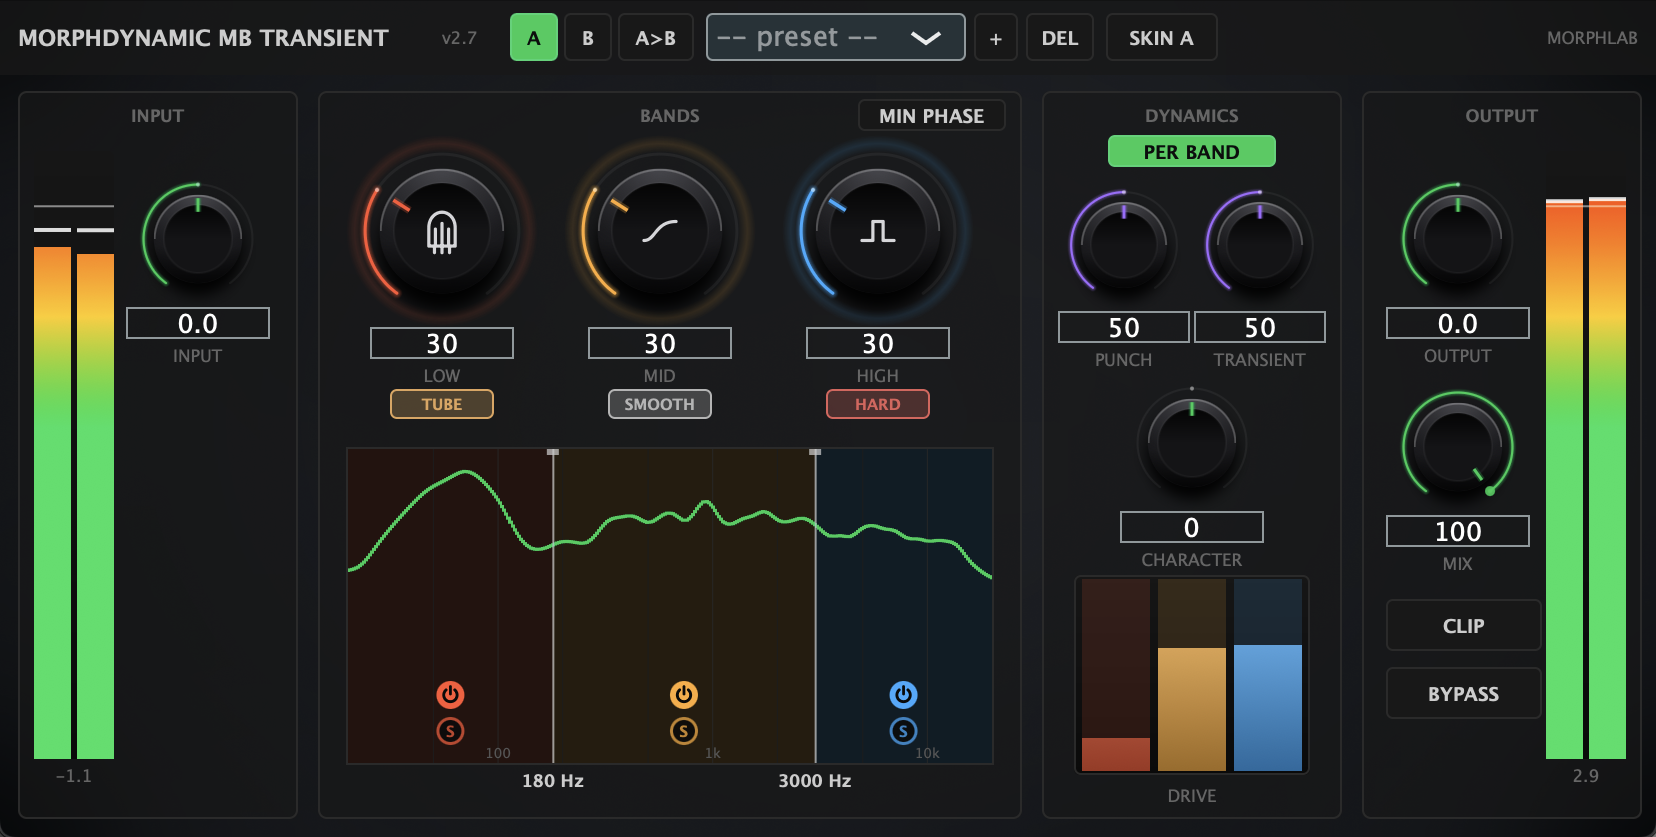
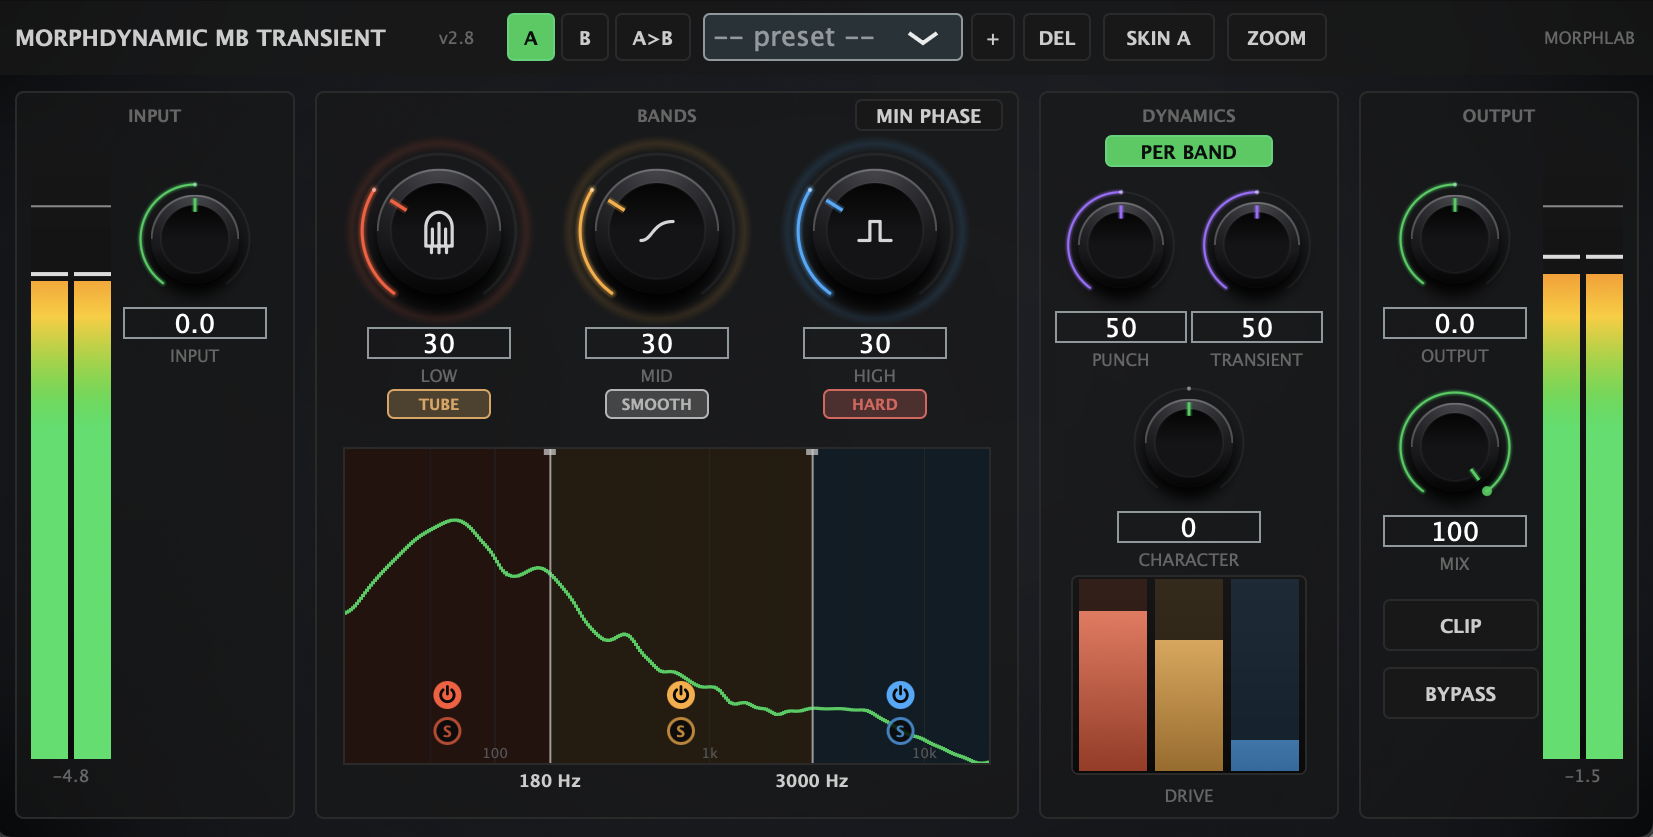
MorphDynamic MB Transient 2.8 (zoom), home riordinata, screenshot nuovo
Claude-Session: https://claude.ai/code/session_012eAqbqugaYwRDwb6sREDro

diff --git a/assets/site.js b/assets/site.js
@@ -15,26 +15,26 @@ const PRODUCTS = [
     released:"2026-10-09", older:[],
     tag:"Mastering clipper",
     text:"A mastering-grade clipper with an oversampled clip stage, a true-peak ceiling measured to ITU-R BS.1770, a movable transient/saturation insert and Mid/Side or dual-mono routing. Density without crushing the mix." },
+  { id:"morphdynamic", file:"MorphDynamic-MB-Transient", name:"MorphDynamic MB Transient", version:"2.8", group:"plugins",
+    released:"2026-10-30", older:[{ version:"2.7", released:"2026-10-15" }],
+    tag:"Multiband transient saturator",
+    text:"Brings the transient forward, in your face, without degrading the signal. Each band reacts only to its own hits while the sustain stays clean. Five saturation types including Transformer, per-band power and solo on the spectrum." },
   { id:"morphlator", file:"MorPhlator", name:"MorPhlator", version:"2.2", group:"plugins",
     released:"2026-10-05", older:[],
     tag:"Multiband harmonic exciter",
     text:"Adds weight and perceived loudness by reshaping the waveform, not by compressing it. Optional three-band split keeps the low end tight, and Gain Match gives you an honest A/B at equal loudness." },
-  { id:"morphtransient", file:"MorphTransient", name:"MorphTransient", version:"2.4", group:"plugins",
-    released:"2026-10-05", older:[],
-    tag:"Transient designer",
-    text:"Two knobs, attack and sustain, driven by level-independent dual-envelope detection — no threshold to chase, no pumping. Parallel mix and a live shape meter. Zero latency." },
-  { id:"morphdynamic", file:"MorphDynamic-MB-Transient", name:"MorphDynamic MB Transient", version:"2.7", group:"plugins",
-    released:"2026-10-15", older:[],
-    tag:"Multiband transient saturator",
-    text:"Brings the transient forward, in your face, without degrading the signal. Each band reacts only to its own hits while the sustain stays clean. Five saturation types including Transformer, per-band power and solo on the spectrum." },
-  { id:"morphase", file:"MorPhase", name:"MorPhase", version:"2.1", group:"plugins",
-    released:"2026-10-05", older:[],
-    tag:"All-pass phase tool",
-    text:"Rotates phase with first- or second-order all-pass filters without touching the magnitude. Align kicks, layers and multi-mic recordings, and watch the result on a beat-locked waveform." },
   { id:"morphalign", file:"MorPhalign", name:"MorPhalign", version:"3.2", group:"plugins",
     released:"2026-10-17", older:[],
     tag:"Sidechain phase alignment",
     text:"Aligns one track to another through the sidechain, so kick and bass sum with the least cancellation. Four engines — Rotate, Multiband, Match and Match LF — on one big knob." },
+  { id:"morphtransient", file:"MorphTransient", name:"MorphTransient", version:"2.4", group:"plugins",
+    released:"2026-10-05", older:[],
+    tag:"Transient designer",
+    text:"Two knobs, attack and sustain, driven by level-independent dual-envelope detection — no threshold to chase, no pumping. Parallel mix and a live shape meter. Zero latency." },
+  { id:"morphase", file:"MorPhase", name:"MorPhase", version:"2.1", group:"plugins",
+    released:"2026-10-05", older:[],
+    tag:"All-pass phase tool",
+    text:"Rotates phase with first- or second-order all-pass filters without touching the magnitude. Align kicks, layers and multi-mic recordings, and watch the result on a beat-locked waveform." },
   { id:"rx92", file:"RX92", name:"RX92", version:"2.2", group:"plugins",
     tall:true,  // narrow, very tall UI: its page shows the full-resolution screenshot whole instead of a 16:10 box
     released:"2026-10-16", older:[],
